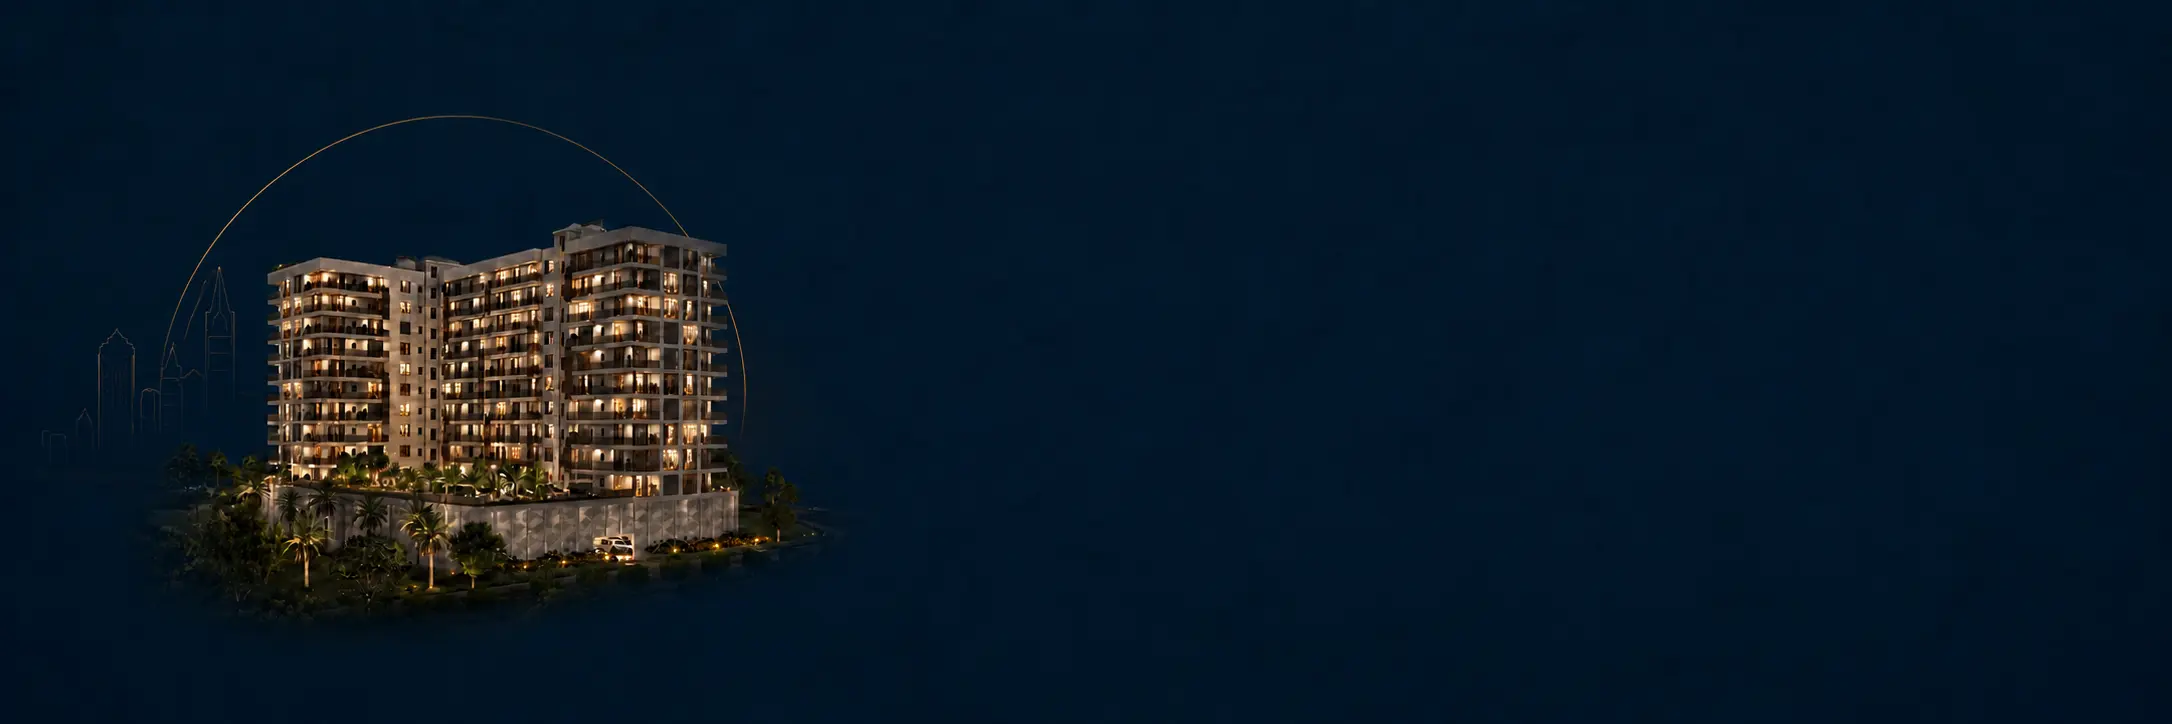
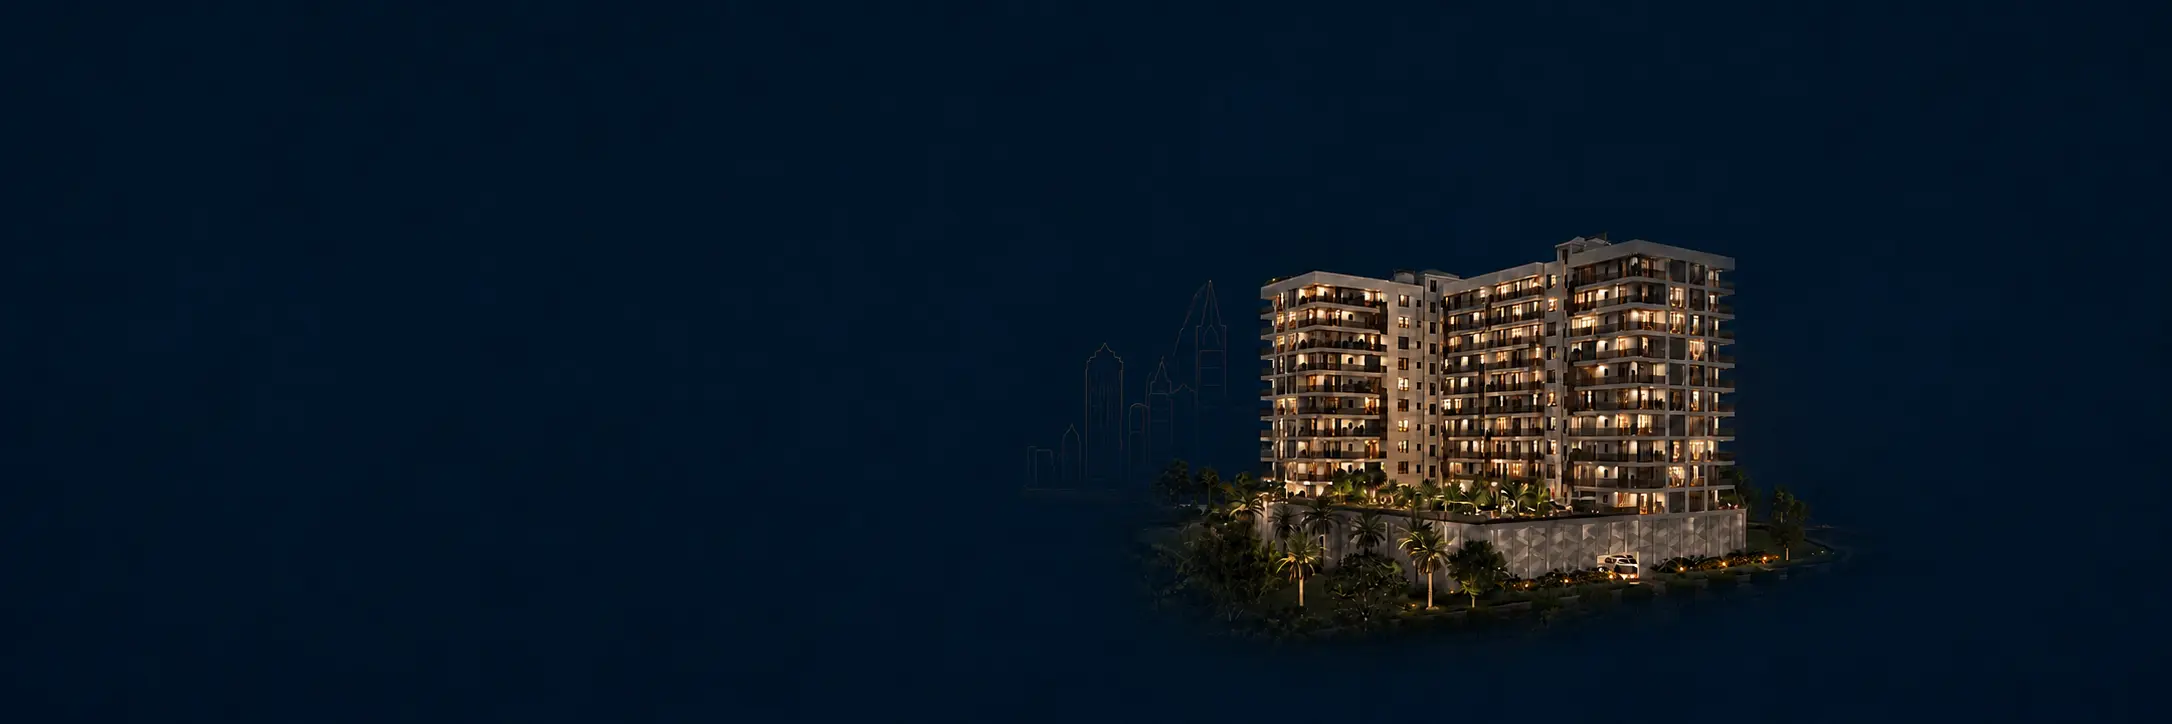
Refine approved mobile header design

Changed region(s): [[0.5244, 0.3039, 0.8329, 0.8812], [0.0617, 0.3039, 0.3702, 0.8508], [0.1851, 0.1519, 0.2159, 0.1823]]

diff --git a/mobile_header_background_patch.js b/mobile_header_background_patch.js
@@ -1,17 +1,28 @@
 (function(){
   'use strict';
   if(document.getElementById('sunblissMobileHeaderBackgroundStyles'))return;
+
   var style=document.createElement('style');
   style.id='sunblissMobileHeaderBackgroundStyles';
   style.textContent=`
     @media(max-width:720px){
       .topbar.sunbliss-professional-header{
+        min-height:220px!important;
+        box-sizing:border-box!important;
+        padding:14px 16px 20px!important;
+        border:0!important;
+        border-radius:0!important;
         background-color:#071520!important;
         background-image:url('assets/sunbliss-mobile-header-background.webp')!important;
         background-repeat:no-repeat!important;
-        background-size:cover!important;
-        background-position:left center!important;
+        background-size:auto 124%!important;
+        background-position:64% 82%!important;
+        box-shadow:
+          inset 0 0 0 1px rgba(224,170,78,.16),
+          inset 0 -34px 54px rgba(1,8,14,.20),
+          0 14px 34px rgba(2,9,15,.24)!important;
       }
+
       .topbar.sunbliss-professional-header::before{
         content:''!important;
         display:block!important;
@@ -22,25 +33,299 @@
         border:0!important;
         border-radius:0!important;
         box-shadow:none!important;
-        background:linear-gradient(90deg,rgba(3,12,20,.82) 0%,rgba(3,12,20,.64) 52%,rgba(3,12,20,.30) 100%)!important;
+        background:
+          linear-gradient(90deg,rgba(3,12,20,.91) 0%,rgba(3,12,20,.76) 45%,rgba(3,12,20,.20) 82%,rgba(3,12,20,.08) 100%),
+          linear-gradient(180deg,rgba(3,12,20,.12) 0%,transparent 42%,rgba(3,12,20,.28) 100%)!important;
         pointer-events:none!important;
         z-index:1!important;
       }
-      .topbar.sunbliss-professional-header::after{z-index:2!important;}
-      .topbar.sunbliss-professional-header .sb-pro-signout,
-      .topbar.sunbliss-professional-header .sb-pro-sync{
-        background:transparent!important;
-        border-color:rgba(214,162,70,.68)!important;
-        box-shadow:none!important;
-        -webkit-backdrop-filter:none!important;
-        backdrop-filter:none!important;
+
+      .topbar.sunbliss-professional-header::after{
+        content:''!important;
+        display:block!important;
+        position:absolute!important;
+        inset:0!important;
+        width:auto!important;
+        height:auto!important;
+        border:0!important;
+        border-radius:0!important;
+        background:
+          radial-gradient(ellipse 58% 38% at 82% 98%,rgba(214,162,70,.14),transparent 72%),
+          radial-gradient(ellipse 34% 24% at 18% 0%,rgba(214,162,70,.08),transparent 76%)!important;
+        pointer-events:none!important;
+        z-index:2!important;
       }
-      .topbar.sunbliss-professional-header .sb-pro-sync{color:rgba(255,250,240,.90)!important;}
+
+      .topbar.sunbliss-professional-header .sb-pro-top,
+      .topbar.sunbliss-professional-header .sb-pro-main{
+        position:relative!important;
+        z-index:3!important;
+      }
+
+      .topbar.sunbliss-professional-header .sb-pro-top{
+        min-height:54px!important;
+        display:flex!important;
+        align-items:center!important;
+        justify-content:space-between!important;
+        gap:10px!important;
+      }
+
+      .topbar.sunbliss-professional-header .sb-pro-brand{
+        min-width:0!important;
+        width:auto!important;
+        max-width:calc(100% - 74px)!important;
+        display:flex!important;
+        flex-direction:row!important;
+        align-items:center!important;
+        justify-content:flex-start!important;
+        gap:9px!important;
+      }
+
+      .topbar.sunbliss-professional-header .sb-pro-brand-logo-frame{
+        display:grid!important;
+        place-items:center!important;
+        width:48px!important;
+        height:48px!important;
+        min-width:48px!important;
+        min-height:48px!important;
+        max-width:48px!important;
+        max-height:48px!important;
+        flex:0 0 48px!important;
+        overflow:hidden!important;
+        border-radius:50%!important;
+        line-height:0!important;
+        filter:drop-shadow(0 5px 14px rgba(214,162,70,.20))!important;
+      }
+
+      .topbar.sunbliss-professional-header .sb-pro-brand-logo{
+        display:block!important;
+        width:auto!important;
+        height:auto!important;
+        min-width:0!important;
+        min-height:0!important;
+        max-width:44px!important;
+        max-height:44px!important;
+        aspect-ratio:auto!important;
+        object-fit:contain!important;
+        object-position:50% 50%!important;
+        align-self:center!important;
+        justify-self:center!important;
+        margin:auto!important;
+        transform:none!important;
+      }
+
+      .topbar.sunbliss-professional-header .sb-pro-brand-copy{
+        display:flex!important;
+        min-width:0!important;
+        max-width:calc(100% - 57px)!important;
+        flex-direction:column!important;
+        justify-content:center!important;
+      }
+
+      .topbar.sunbliss-professional-header .sb-pro-brand-name{
+        display:block!important;
+        margin:0!important;
+        color:#e0aa4e!important;
+        font:500 18px/1 Georgia,'Times New Roman',serif!important;
+        letter-spacing:.035em!important;
+        white-space:nowrap!important;
+        text-shadow:0 2px 14px rgba(214,162,70,.18)!important;
+      }
+
+      .topbar.sunbliss-professional-header .sb-pro-brand-sub{
+        display:block!important;
+        width:max-content!important;
+        margin-top:4px!important;
+        color:rgba(228,180,92,.92)!important;
+        font:600 6px/1.25 Inter,system-ui,sans-serif!important;
+        letter-spacing:.10em!important;
+        white-space:nowrap!important;
+        text-align:left!important;
+      }
+
+      .topbar.sunbliss-professional-header .sb-pro-signout{
+        height:34px!important;
+        display:flex!important;
+        align-items:center!important;
+        justify-content:center!important;
+        gap:6px!important;
+        padding:0 9px!important;
+        border:1px solid rgba(214,162,70,.56)!important;
+        border-radius:10px!important;
+        background:transparent!important;
+        color:#fffaf0!important;
+        font:600 9.4px/1 Inter,system-ui,sans-serif!important;
+        box-shadow:inset 0 1px 0 rgba(255,231,184,.10),0 8px 22px rgba(1,8,14,.18)!important;
+        -webkit-backdrop-filter:blur(7px)!important;
+        backdrop-filter:blur(7px)!important;
+      }
+
+      .topbar.sunbliss-professional-header .sb-pro-signout svg{
+        width:15px!important;
+        height:15px!important;
+      }
+
+      .topbar.sunbliss-professional-header .sb-pro-main{
+        margin-top:24px!important;
+      }
+
+      .topbar.sunbliss-professional-header .sb-pro-main::before{
+        content:''!important;
+        position:absolute!important;
+        left:-16px!important;
+        top:14px!important;
+        width:2px!important;
+        height:54px!important;
+        border-radius:999px!important;
+        background:linear-gradient(180deg,transparent,rgba(224,170,78,.88) 38%,rgba(224,170,78,.32) 72%,transparent)!important;
+        box-shadow:0 0 14px rgba(214,162,70,.28)!important;
+        pointer-events:none!important;
+      }
+
+      .topbar.sunbliss-professional-header .sb-pro-welcome{
+        margin:0 0 4px!important;
+        color:rgba(248,244,234,.84)!important;
+        font:500 11px/1.3 Inter,system-ui,sans-serif!important;
+        letter-spacing:.01em!important;
+        text-shadow:0 2px 8px rgba(0,0,0,.72)!important;
+      }
+
+      .topbar.sunbliss-professional-header .sb-pro-name-row{
+        display:flex!important;
+        align-items:center!important;
+        gap:8px!important;
+        flex-wrap:nowrap!important;
+        white-space:nowrap!important;
+      }
+
+      .topbar.sunbliss-professional-header .sb-pro-name{
+        margin:0!important;
+        color:#fff!important;
+        font:650 23px/1.04 Inter,system-ui,sans-serif!important;
+        letter-spacing:-.035em!important;
+        white-space:nowrap!important;
+        text-shadow:0 2px 8px rgba(0,0,0,.72)!important;
+      }
+
+      .topbar.sunbliss-professional-header .sb-pro-role{
+        min-height:26px!important;
+        display:inline-flex!important;
+        align-items:center!important;
+        padding:0 8px!important;
+        border:1px solid rgba(214,162,70,.76)!important;
+        border-radius:999px!important;
+        background:linear-gradient(180deg,rgba(198,151,46,.09),rgba(198,151,46,.025))!important;
+        color:#e2b157!important;
+        font:650 8px/1 Inter,system-ui,sans-serif!important;
+      }
+
+      .topbar.sunbliss-professional-header .sb-pro-project-row{
+        min-width:0!important;
+        margin-top:12px!important;
+        position:relative!important;
+        isolation:isolate!important;
+        display:flex!important;
+        align-items:center!important;
+        justify-content:space-between!important;
+        gap:10px!important;
+      }
+
+      .topbar.sunbliss-professional-header .sb-pro-project-row::before{
+        content:''!important;
+        position:absolute!important;
+        inset:-7px -6px!important;
+        z-index:-1!important;
+        border:1px solid rgba(224,170,78,.18)!important;
+        border-radius:12px!important;
+        background:linear-gradient(90deg,rgba(5,18,29,.46),rgba(5,18,29,.16))!important;
+        box-shadow:inset 0 1px 0 rgba(255,231,184,.055),0 10px 28px rgba(1,8,14,.16)!important;
+        -webkit-backdrop-filter:blur(6px)!important;
+        backdrop-filter:blur(6px)!important;
+      }
+
+      .topbar.sunbliss-professional-header .sb-pro-project{
+        min-width:0!important;
+        display:flex!important;
+        align-items:center!important;
+        gap:7px!important;
+        color:#f5f0e6!important;
+        font:600 11.3px/1.2 Inter,system-ui,sans-serif!important;
+        text-shadow:0 2px 8px rgba(0,0,0,.72)!important;
+      }
+
+      .topbar.sunbliss-professional-header .sb-pro-project-icon{
+        width:27px!important;
+        height:27px!important;
+        flex:0 0 27px!important;
+        display:flex!important;
+        align-items:center!important;
+        justify-content:center!important;
+        border:1px solid rgba(214,162,70,.46)!important;
+        border-radius:8px!important;
+        background:linear-gradient(145deg,rgba(214,162,70,.10),rgba(7,21,32,.18))!important;
+        box-shadow:inset 0 1px 0 rgba(255,231,184,.08),0 7px 18px rgba(1,8,14,.16)!important;
+      }
+
+      .topbar.sunbliss-professional-header .sb-pro-project-icon svg{
+        width:15px!important;
+        height:15px!important;
+      }
+
+      .topbar.sunbliss-professional-header .sb-pro-project-sep{
+        display:block!important;
+        width:12px!important;
+        height:1px!important;
+        flex:0 0 12px!important;
+        background:linear-gradient(90deg,#c6972e,transparent)!important;
+        opacity:.75!important;
+      }
+
+      .topbar.sunbliss-professional-header .sb-pro-sync{
+        height:28px!important;
+        display:flex!important;
+        align-items:center!important;
+        gap:5px!important;
+        padding:0 7px!important;
+        border:1px solid rgba(214,162,70,.52)!important;
+        border-radius:9px!important;
+        background:transparent!important;
+        color:rgba(255,250,240,.90)!important;
+        font:500 8.2px/1 Inter,system-ui,sans-serif!important;
+        white-space:nowrap!important;
+        box-shadow:inset 0 1px 0 rgba(255,231,184,.08),0 7px 18px rgba(1,8,14,.15)!important;
+        -webkit-backdrop-filter:blur(6px)!important;
+        backdrop-filter:blur(6px)!important;
+      }
+
+      .topbar.sunbliss-professional-header .sb-pro-sync svg{
+        width:12px!important;
+        height:12px!important;
+      }
+
       .topbar.sunbliss-professional-header .sb-pro-name,
       .topbar.sunbliss-professional-header .sb-pro-project,
-      .topbar.sunbliss-professional-header .sb-pro-welcome{text-shadow:0 2px 8px rgba(0,0,0,.72)!important;}
-      .topbar.sunbliss-professional-header .sb-dubai-skyline{display:none!important;}
+      .topbar.sunbliss-professional-header .sb-pro-welcome{
+        text-shadow:0 2px 8px rgba(0,0,0,.72)!important;
+      }
+
+      .topbar.sunbliss-professional-header .sb-dubai-skyline{
+        display:none!important;
+      }
+    }
+
+    @media(max-width:370px){
+      .topbar.sunbliss-professional-header{
+        padding-left:13px!important;
+        padding-right:13px!important;
+      }
+      .topbar.sunbliss-professional-header .sb-pro-brand-name{
+        font-size:17px!important;
+      }
+      .topbar.sunbliss-professional-header .sb-pro-project-sep{
+        display:none!important;
+      }
     }
   `;
+
   document.head.appendChild(style);
 })();
